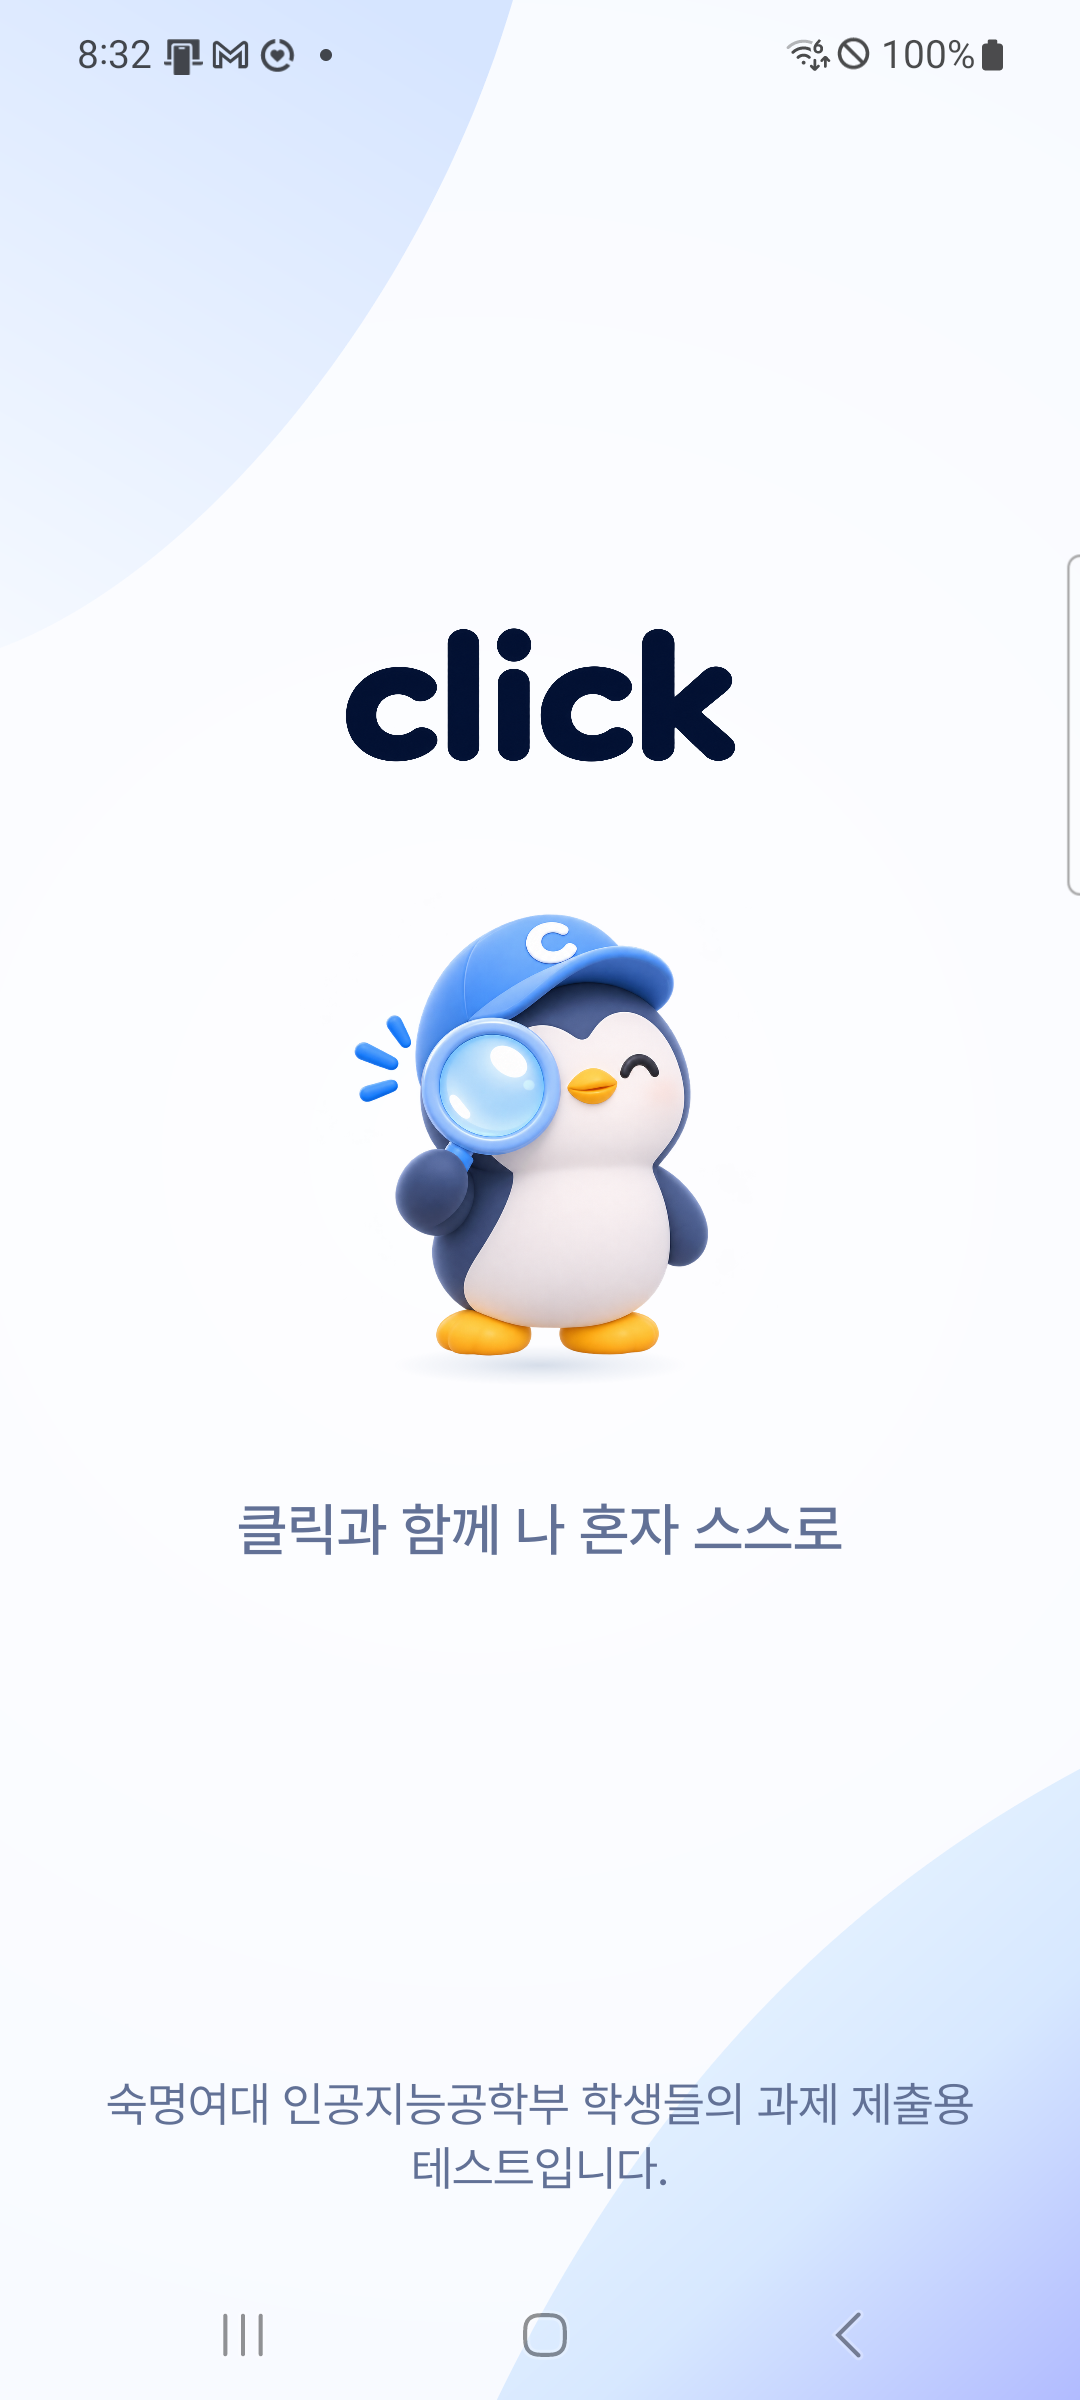
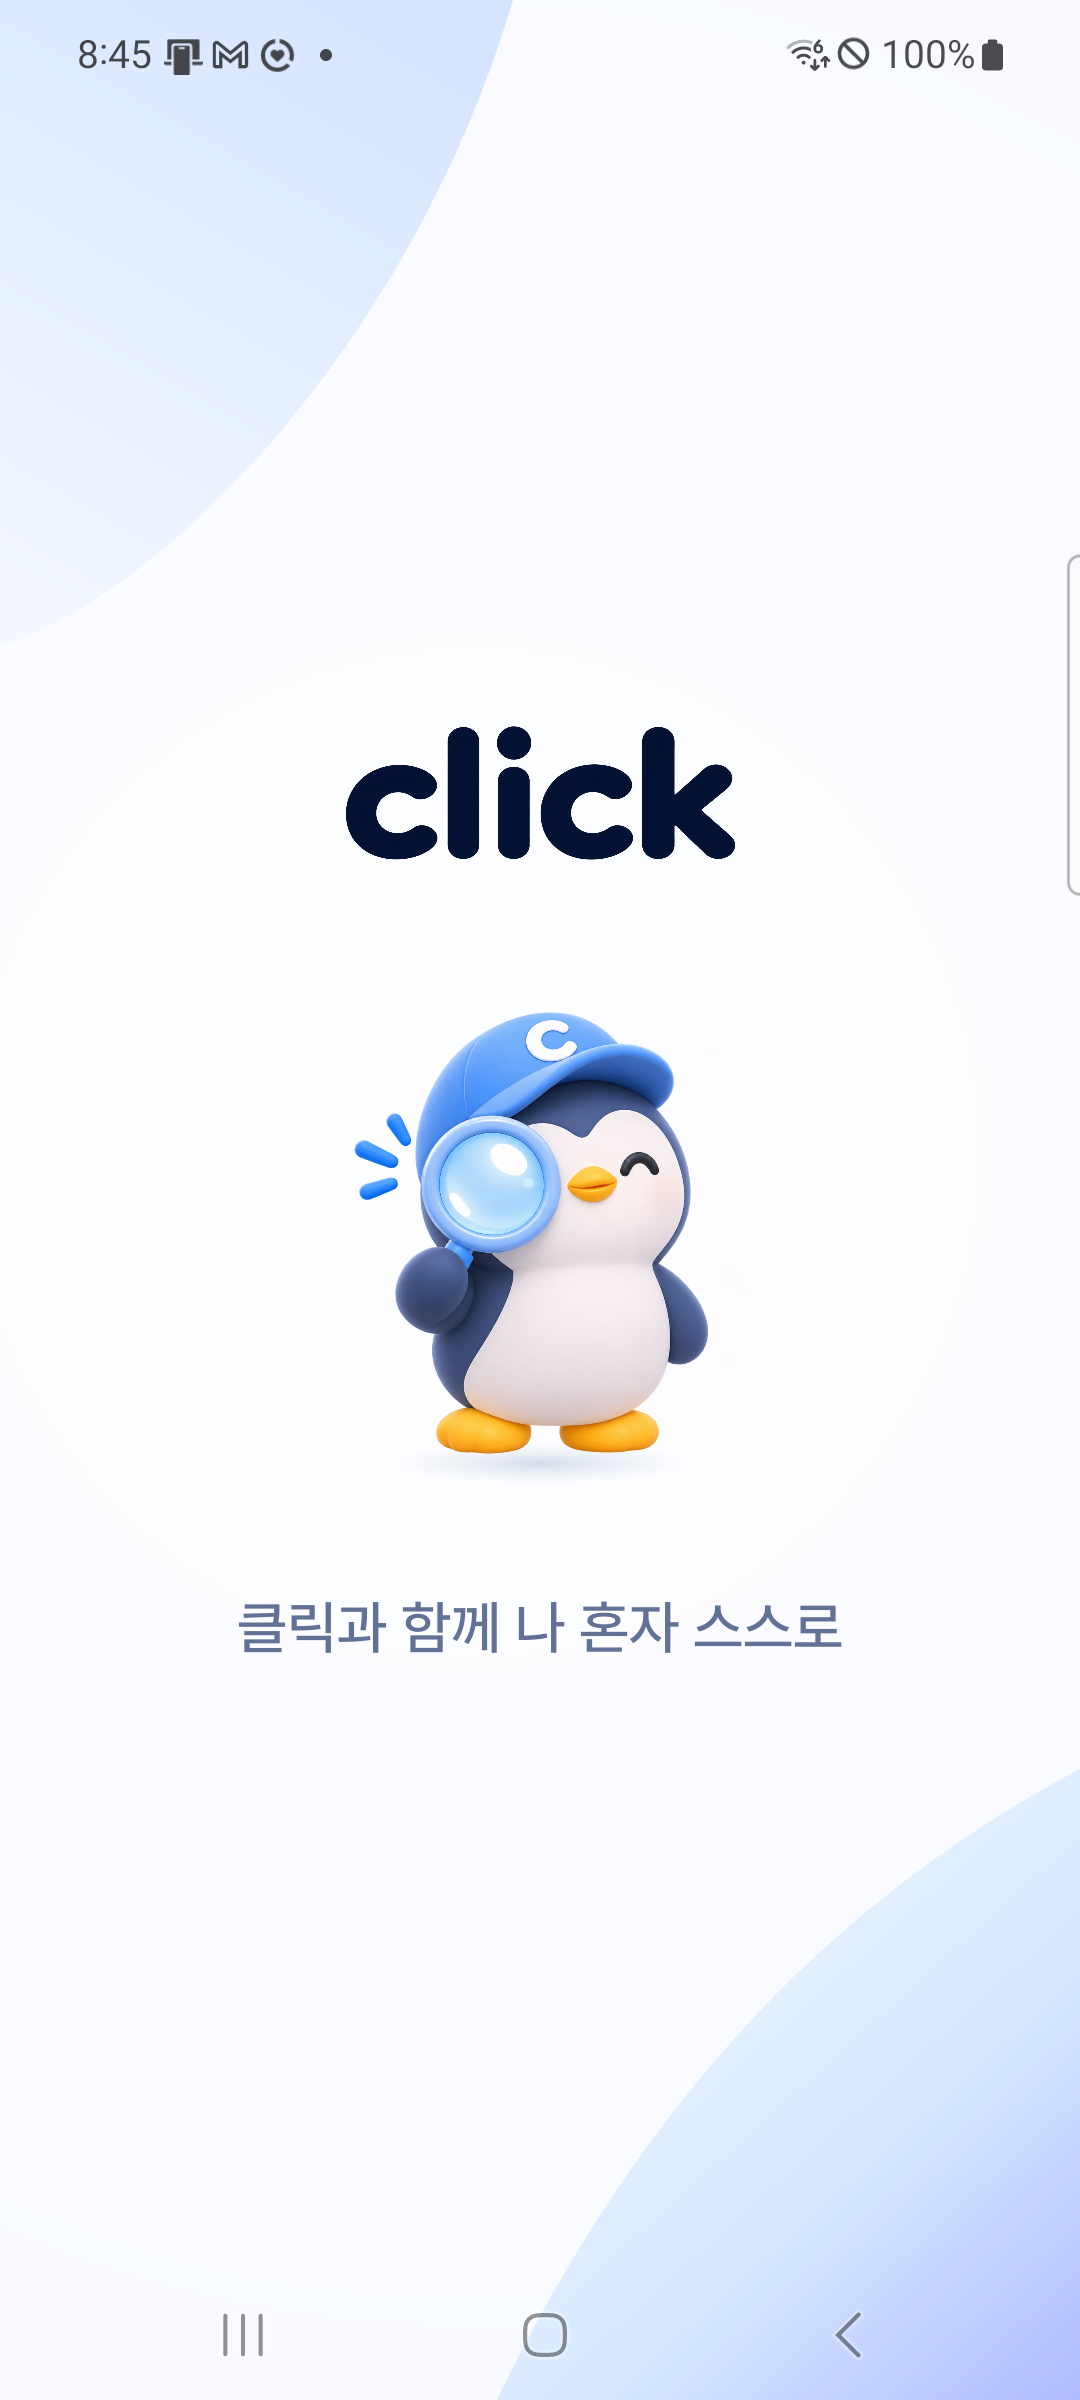
Remove the coursework notice from the splash and refresh the device capture [skip render]

diff --git a/Frontend/design-preview/src/main/java/com/click/designpreview/SplashLayout.java b/Frontend/design-preview/src/main/java/com/click/designpreview/SplashLayout.java
@@ -62,12 +62,8 @@ public final class SplashLayout extends FrameLayout {
         View tagline = childOrId(2, R.id.splash_tagline);
         tagline.measure(MeasureSpec.makeMeasureSpec(Math.max(0, contentWidth - dp(48)), MeasureSpec.AT_MOST),
                 MeasureSpec.makeMeasureSpec(0, MeasureSpec.UNSPECIFIED));
-        View notice = childOrId(3, R.id.splash_test_notice);
-        notice.measure(MeasureSpec.makeMeasureSpec(Math.max(0, contentWidth - dp(48)), MeasureSpec.AT_MOST),
-                MeasureSpec.makeMeasureSpec(0, MeasureSpec.UNSPECIFIED));
         int gap = dp(contentHeight < dp(400) ? 12 : 20);
-        int noticeSpace = notice.getMeasuredHeight() + dp(40);
-        int availableHeight = Math.max(0, contentHeight - noticeSpace - tagline.getMeasuredHeight() - gap * 2 - dp(32));
+        int availableHeight = Math.max(0, contentHeight - tagline.getMeasuredHeight() - gap * 2 - dp(32));
         int logoWidth = Math.min(dp(250), Math.round(contentWidth * .56f));
         int artWidth = Math.min(dp(180), Math.round(contentWidth * .48f));
         float illustrationHeight = logoWidth * 72f / 222f + artWidth * 210f / 180f;
@@ -91,18 +87,11 @@ public final class SplashLayout extends FrameLayout {
         View tagline = childOrId(2, R.id.splash_tagline);
         int gap = dp(contentHeight < dp(400) ? 12 : 20);
         int groupHeight = logo.getMeasuredHeight() + artwork.getMeasuredHeight() + gap * 2 + tagline.getMeasuredHeight();
-        View notice = childOrId(3, R.id.splash_test_notice);
-        int noticeTop = Math.max(getPaddingTop() + dp(8),
-                bottom - top - getPaddingBottom() - dp(24) - notice.getMeasuredHeight());
-        int groupBottom = noticeTop - dp(16);
-        int desiredTop = getPaddingTop() + Math.round(Math.max(0, groupBottom - getPaddingTop()) * .51f) - groupHeight / 2;
-        int logoTop = Math.max(getPaddingTop() + dp(8), Math.min(desiredTop,
-                groupBottom - dp(8) - groupHeight));
+        int logoTop = getPaddingTop() + Math.max(0, (contentHeight - groupHeight) / 2);
         placeCentered(logo, centerX, logoTop);
         int artworkTop = logoTop + logo.getMeasuredHeight() + gap;
         placeCentered(artwork, centerX, artworkTop);
         placeCentered(tagline, centerX, artworkTop + artwork.getMeasuredHeight() + gap);
-        placeCentered(notice, centerX, noticeTop);
     }
 
     private void placeCentered(View view, int centerX, int top) {
